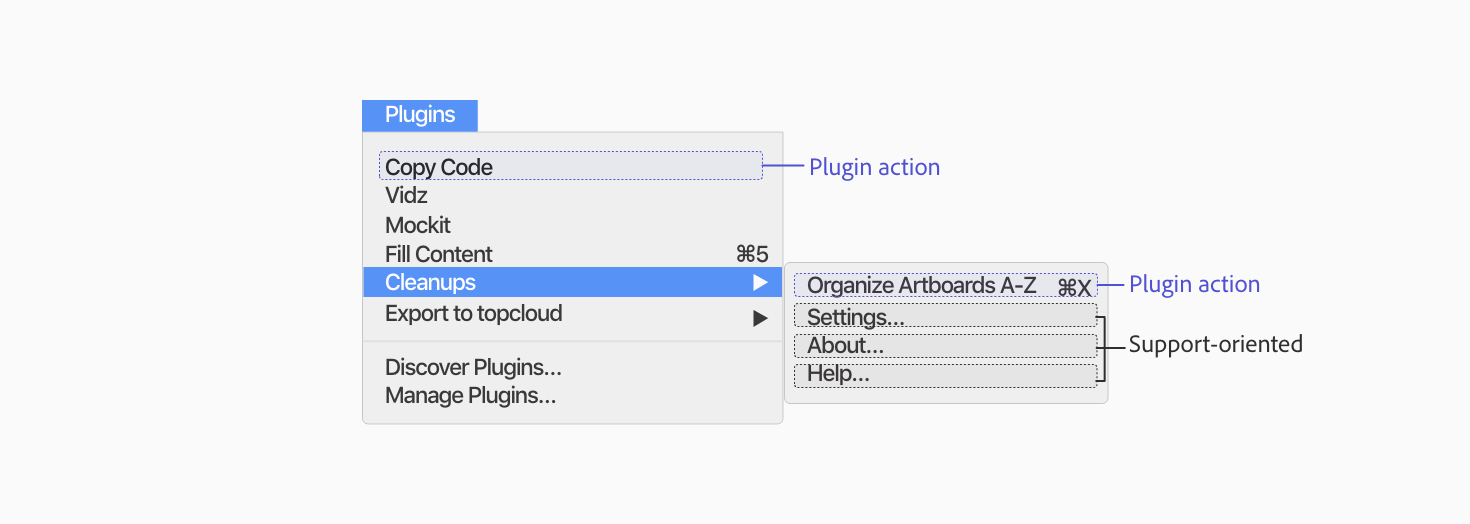
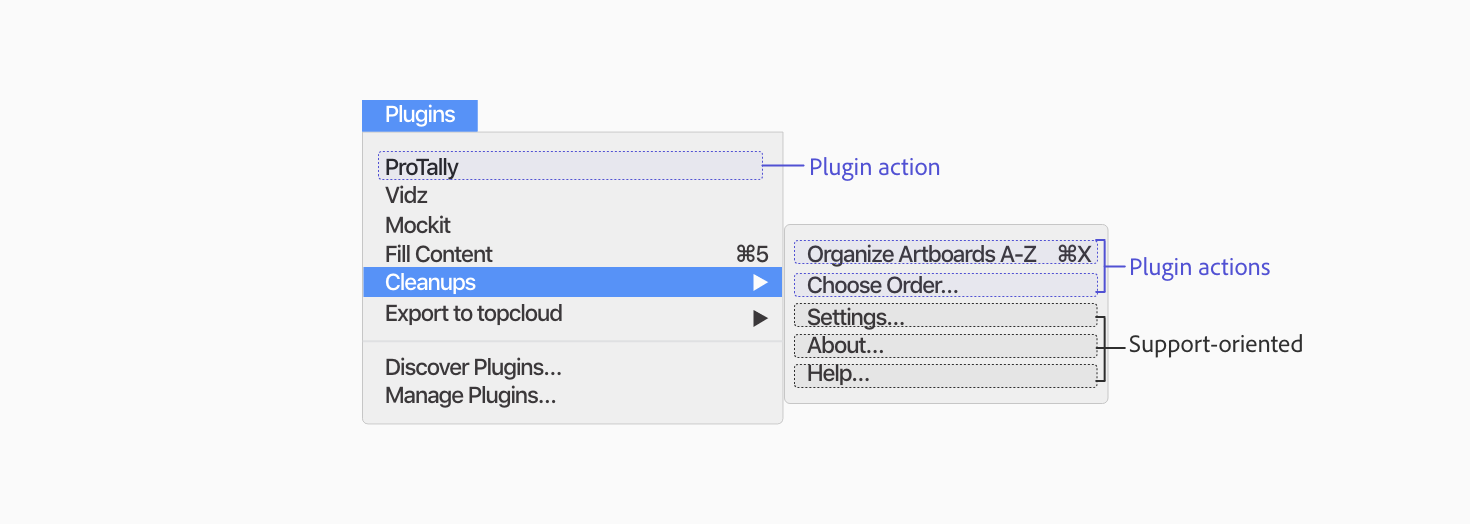
[updated the menu guidelines to reflect manifest updates]

Changed region(s): [[0.551, 0.458, 0.8571, 0.5802], [0.2449, 0.3053, 0.3367, 0.3359]]

diff --git a/plugin-design-guidelines/ux_guidelines/Interface_Guidelines.md b/plugin-design-guidelines/ux_guidelines/Interface_Guidelines.md
@@ -59,7 +59,7 @@ If you are considering having a shortcut for your plugin, make sure to keep thes
 
 ### **Use Case**
 
-If your plugin has **one action or workflow shortcut** then the action can be the top menu item. 
+If your plugin has **one action or workflow shortcut** then the action will be the top menu item. 
 
 ### **UI Pattern**
 
@@ -80,18 +80,24 @@ If your plugin has **one action or workflow shortcut** then the action can be th
 
 ### **Use Cases**
 
-if your plugin needs to handle **multiple actions** or **workflow shortcuts** then consider having them in the submenu.
+if your plugin needs to handle **multiple actions** or **workflow shortcuts** then they will render as a submenu.
 
 ### **UI Pattern**
 
 ![Submenu Example](../ux_images/Sub_Menu_items.png)
 
 **Plugin Label** 
-> A. Long label names will truncate
-> B. Top menu label is the plugin name
-> C. Submenu labels - action labels should have a descriptive name (i.e: Copy CSS)
-> D. When a plugin needs further user action in order to continue, then at the end of the submenu label should use “…”
-> E. Limit the use of emoji’s as part of the label
+> A. If the plugin has a single submenu item then it will be shown as a Top Menu item
+
+> B. Long label names will truncate
+
+> C. Top menu label is the plugin name
+
+> D. Submenu labels - action labels should have a descriptive name (i.e: Copy CSS)
+
+> E. When a plugin needs further user action in order to continue, then at the end of the submenu label should use “…”
+
+> F. Limit the use of emoji’s as part of the label
 
 ![Submenu don't do example](../ux_images/Sub_Menu_items_Dont.png)
 
